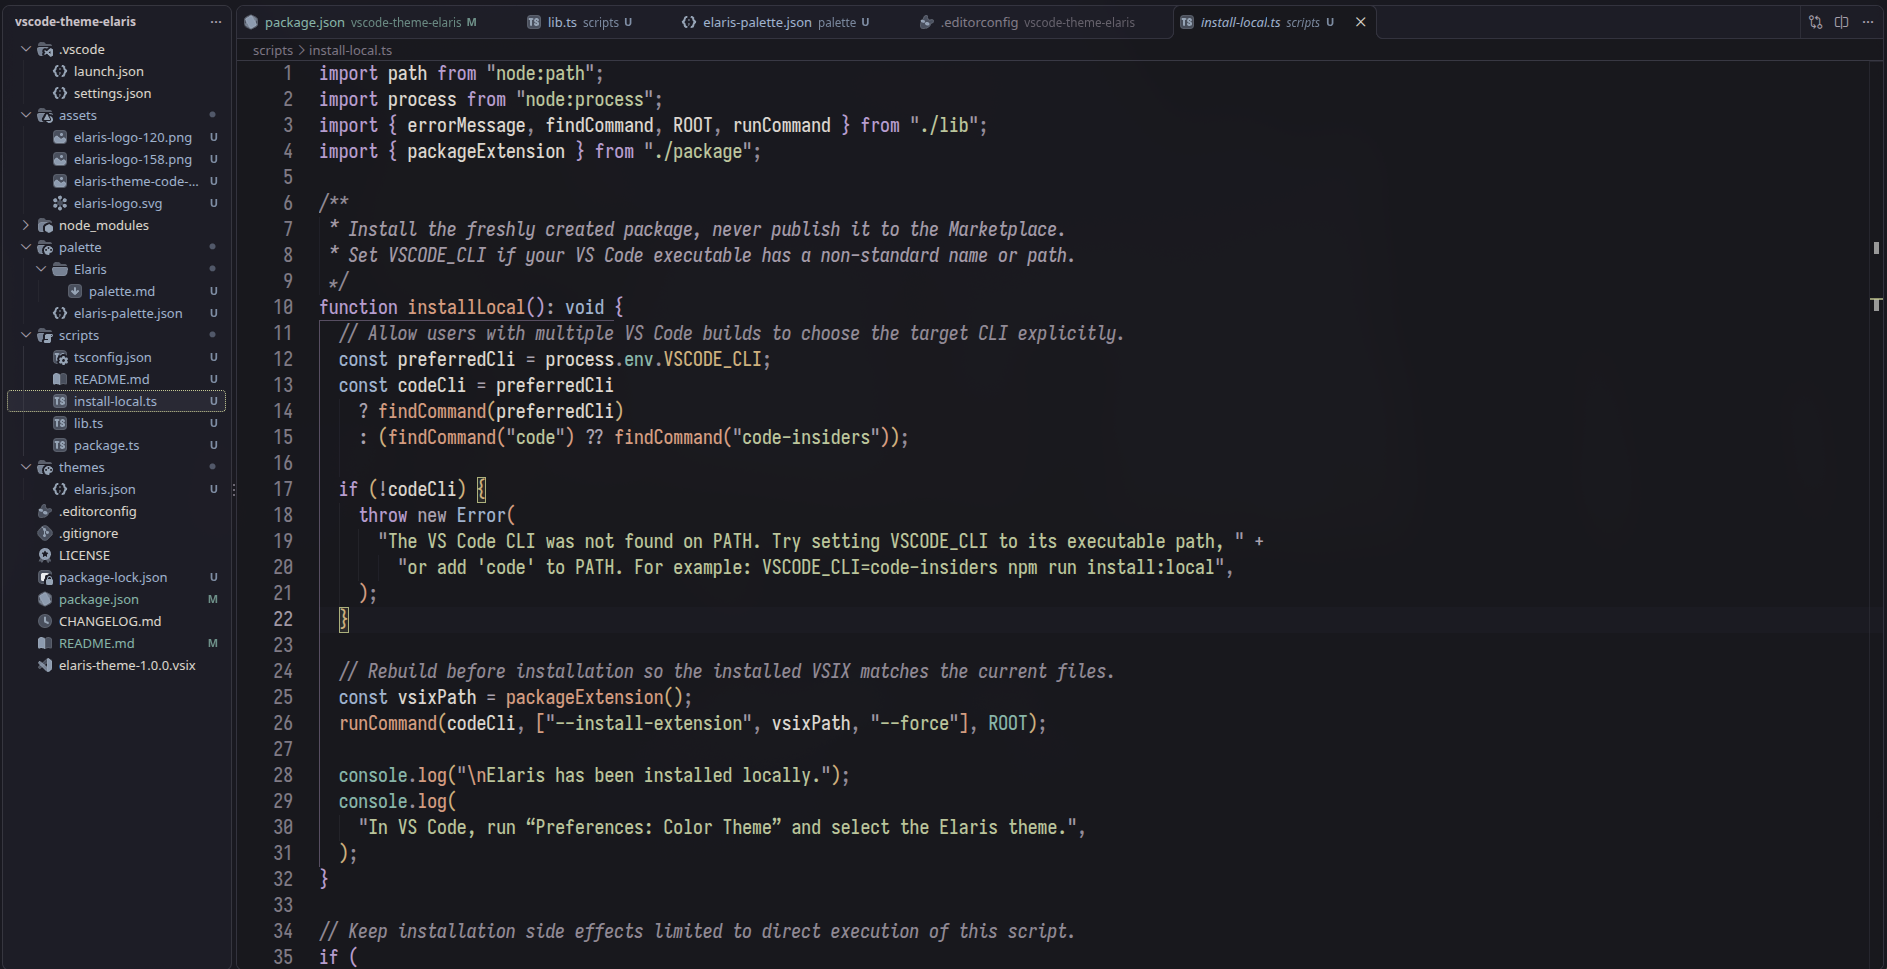
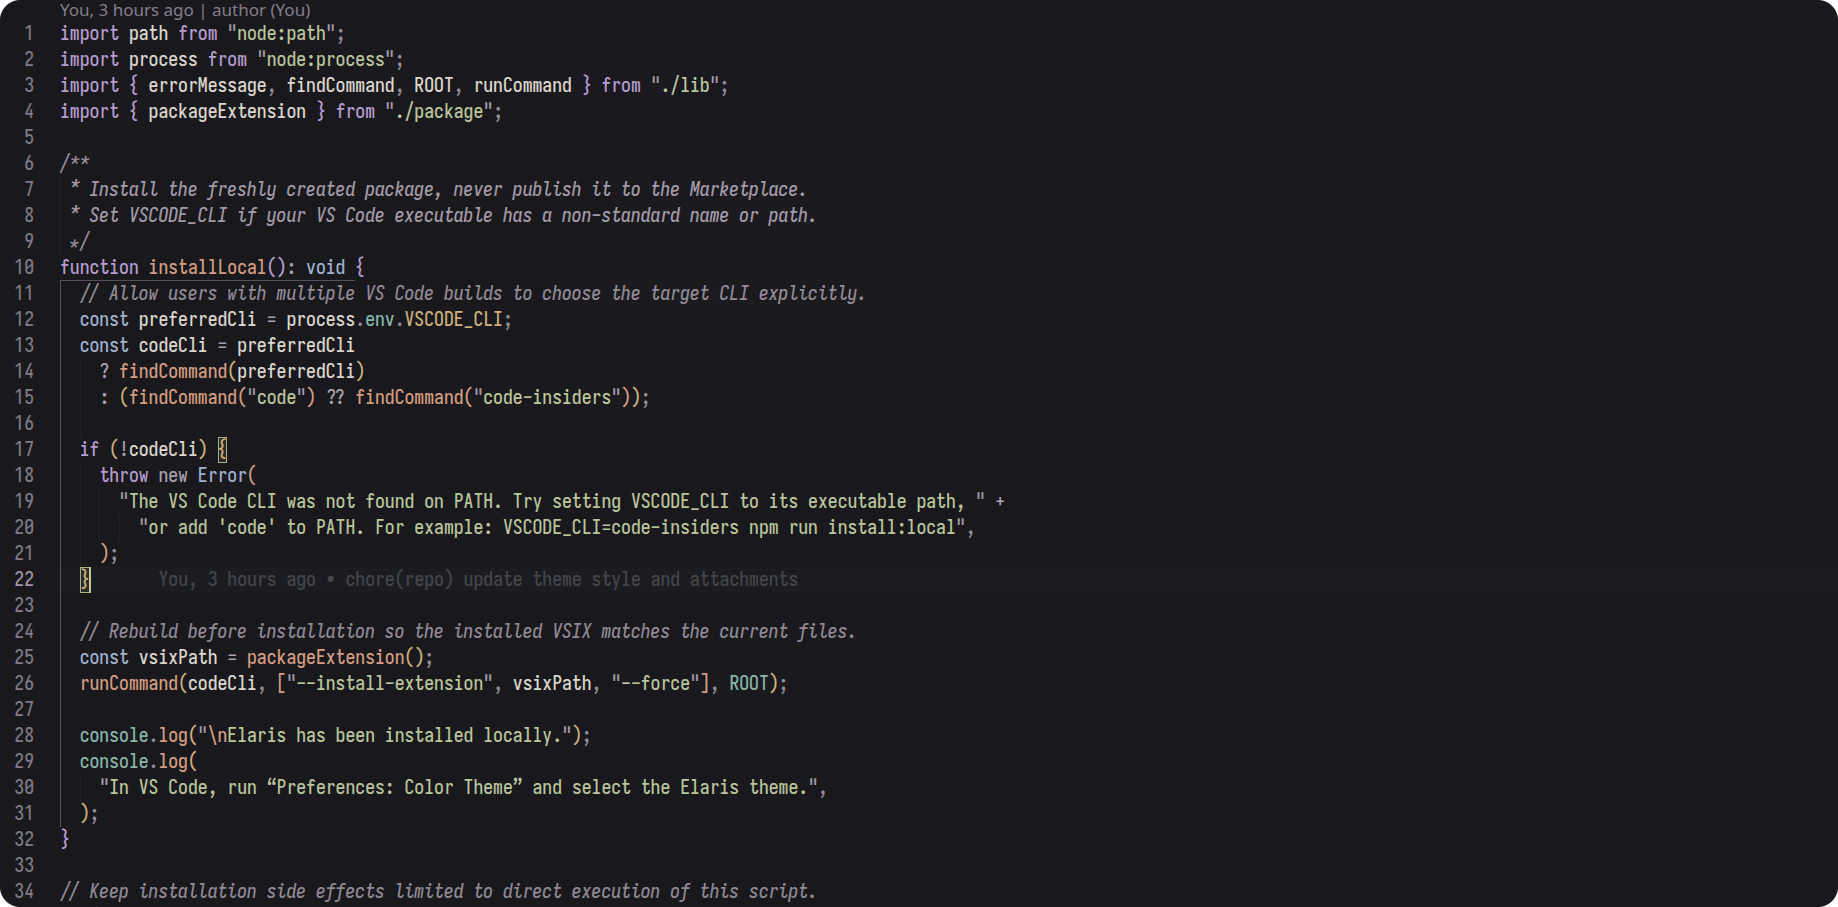
chore(repo) update README and attachments

diff --git a/README.md b/README.md
@@ -5,19 +5,35 @@
 </p>
 
 <p align="center">
-  <a href="https://marketplace.visualstudio.com/items?itemName=nodxide.vscode-theme-elaris">
-    <img src="https://img.shields.io/visual-studio-marketplace/v/nodxide.vscode-theme-elaris?style=flat-square&label=version&logo=visualstudiocode&logoColor=C0A5D9&labelColor=17171D&color=252530" alt="Marketplace version">
+  <a href="https://github.com/nodxide/vscode-theme-elaris">
+    <img
+      src="https://img.shields.io/badge/Visual_Studio_Code-Color_Theme-252530?style=for-the-badge&logo=visualstudiocode&logoColor=C0A5D9&labelColor=17171D"
+      alt="Visual Studio Code Theme"
+    >
   </a>
-  <img src="https://img.shields.io/visual-studio-marketplace/i/nodxide.vscode-theme-elaris?style=flat-square&label=installs&logo=download&logoColor=D0D49A&labelColor=17171D&color=252530" alt="Marketplace installs">
-  <img src="https://img.shields.io/visual-studio-marketplace/r/nodxide.vscode-theme-elaris?style=flat-square&label=rating&logo=star&logoColor=DFA486&labelColor=17171D&color=252530" alt="Marketplace rating">
+  <img
+    src="https://img.shields.io/badge/Dark-Interface-252530?style=for-the-badge&logo=visualstudiocode&logoColor=D0D49A&labelColor=17171D"
+    alt="Dark Interface"
+  >
+  <img
+    src="https://img.shields.io/badge/Pastel-Color_Palette-252530?style=for-the-badge&labelColor=17171D"
+    alt="Pastel Color Palette"
+  >
 </p>
 
 <p align="center">
-  <a href="https://github.com/OWNER/REPOSITORY/stargazers">
-    <img src="https://img.shields.io/github/stars/nodxide/vscode-theme-elaris?style=flat-square&label=stars&logo=github&logoColor=C0A5D9&labelColor=17171D&color=252530" alt="GitHub stars">
+  <a href="https://github.com/nodxide/vscode-theme-elaris/stargazers">
+    <img
+      src="https://img.shields.io/github/stars/nodxide/vscode-theme-elaris?style=for-the-badge&logo=github&logoColor=C0A5D9&labelColor=17171D&color=252530"
+      alt="GitHub Stars"
+    >
   </a>
-  <img src="https://img.shields.io/github/license/nodxide/vscode-theme-elaris?style=flat-square&label=license&labelColor=17171D&color=252530" alt="License">
-  <img src="https://img.shields.io/badge/theme-dark-252530?style=flat-square&labelColor=17171D&logo=visualstudiocode&logoColor=D0D49A" alt="Dark theme">
+  <a href="https://github.com/nodxide/vscode-theme-elaris/blob/main/LICENSE">
+    <img
+      src="https://img.shields.io/github/license/nodxide/vscode-theme-elaris?style=for-the-badge&labelColor=17171D&color=252530"
+      alt="License"
+    >
+  </a>
 </p>
 
 <p align="center">
@@ -32,17 +48,15 @@
 
 <p align="center">
   <a href="palette/Elaris/palette.md">Color palette</a>
-  ○
+  ◦
   <a href="https://github.com/be5invis/Iosevka">Iosevka Font</a>
-  ○
-  <a href="https://marketplace.visualstudio.com/items?itemName=thang-nm.flow-icons">Flow Icons(flow-you)</a>
 </p>
 
 <p align="center"><em>Less visual noise. More attention on the code.</em></p>
 
 ---
 
-## Overview
+<h2 align="center">Overview</h2>
 
 Elaris is a dark color theme for Visual Studio Code built around one principle: **the interface should support the code, not compete with it.**
 
@@ -50,7 +64,7 @@ The theme combines a near-black charcoal editor with warm off-white text, muted 
 
 That visual language continues throughout the workbench — from tabs and sidebars to terminal output, diagnostics, source control, diffs, debugging, tests, and notebooks. The aim is a cohesive workspace where hierarchy stays clear and emphasis is used intentionally.
 
-## Design principles
+<h2 align="center">Design principles</h2>
 
 ### A clear visual hierarchy
 
@@ -68,19 +82,7 @@ Lime is reserved for focus and active states. Teal, sage, blue, lilac, amber, an
 
 Elaris styles more than syntax. Selections, bracket matching, search results, inlay hints, suggestions, Git decorations, merge states, terminal output, debugging, tests, and notebook cells are designed to feel like parts of the same workbench.
 
-## Highlights
-
-- **Deep charcoal surfaces** with warm, readable foregrounds.
-- **Semantic highlighting** for supported semantic tokens, complemented by TextMate grammar rules.
-- **Broad syntax coverage** with language-specific rules for programming, markup, query, configuration, and infrastructure languages.
-- **Cohesive workbench styling** across tabs, sidebars, panels, menus, notifications, inputs, terminals, and editor widgets.
-- **Developer-state colors** for errors, warnings, Git changes, diffs, merge conflicts, debugging, tests, and notebooks.
-- **Subtle active-line highlighting** that helps track the cursor without creating a prominent stripe.
-- **Consistent terminal colors** with a coordinated ANSI palette.
-
-Syntax highlighting depends on the language grammar and, where applicable, semantic-token support from installed language vscode-theme-elariss and language servers. Exact highlighting can therefore vary between languages and vscode-theme-elariss.
-
-## Color palette
+<h2 align="center">Color palette</h2>
 
 Elaris uses a compact color system with distinct roles for interface surfaces, readable text, syntax, and diagnostics. The complete reference—including HEX values and the intended use of each core color—is maintained separately to keep this README focused.
 
@@ -88,7 +90,7 @@ Elaris uses a compact color system with distinct roles for interface surfaces, r
 
 The theme definition also uses transparency variants for selections, highlights, borders, and other interface states. For the full token-level implementation, see [`themes/elaris-color-theme.json`](themes/elaris-color-theme.json).
 
-## Preview Elaris locally
+<h2 align="center">Preview Elaris locally</h2>
 
 To run the theme from source in the VS Code vscode-theme-elaris Development Host:
 
@@ -106,13 +108,13 @@ To run the theme from source in the VS Code vscode-theme-elaris Development Host
 
 For vscode-theme-elaris packaging and publishing, consult the [VS Code vscode-theme-elaris publishing documentation](https://code.visualstudio.com/api/working-with-vscode-theme-elariss/publishing-vscode-theme-elaris).
 
-## Contributing
+<h2 align="center">Contributing</h2>
 
 Bug reports, suggestions, and focused improvements are welcome. When reporting a visual issue, identify the affected token or workbench element, describe the current and expected behavior, and include a screenshot or minimal reproducible example where practical.
 
 Contributions should preserve Elaris's visual hierarchy and the distinction between syntax roles. Prefer refining an existing assignment over introducing a new accent without a clear functional reason. When changing shared colors, review both code syntax and workbench states to avoid unintended side effects.
 
-## License
+<h2 align="center">License</h2>
 
 Elaris is distributed under the terms specified in [`LICENSE`](LICENSE). Review that file for the applicable conditions on use, modification, and redistribution.
 
